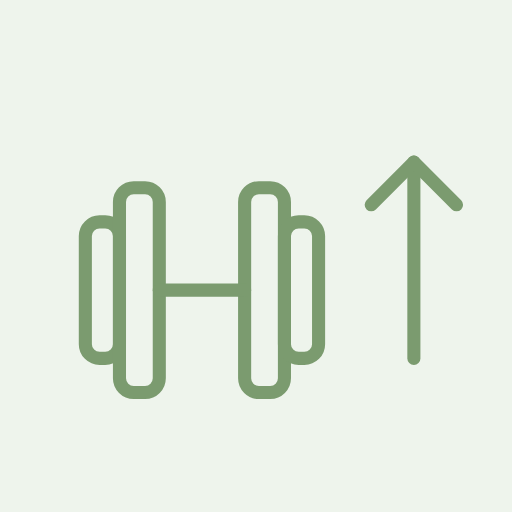
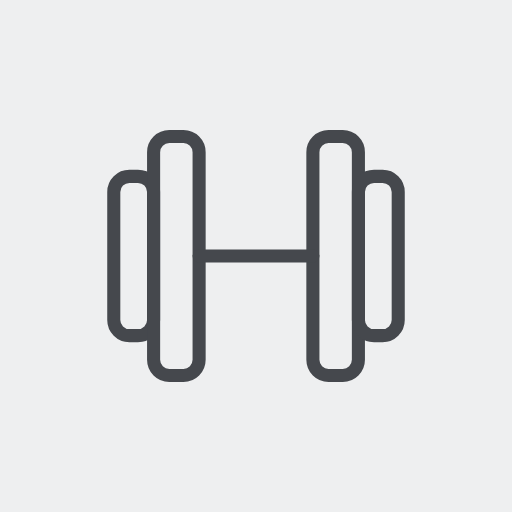
Ícone: só o halter centralizado, em cinza
Claude-Session: https://claude.ai/code/session_011sYtiSwLEkvZPYxei3VD53

Changed region(s): [[0.125, 0.25, 0.9062, 0.7812]]

diff --git a/sw.js b/sw.js
@@ -1,4 +1,4 @@
-var V="treino-v2",FILES=["./","index.html","icon.png","apple-touch-icon.png","manifest.webmanifest"];
+var V="treino-v3",FILES=["./","index.html","icon.png","apple-touch-icon.png","manifest.webmanifest"];
 self.addEventListener("install",function(e){e.waitUntil(caches.open(V).then(function(c){return c.addAll(FILES)}).then(function(){return self.skipWaiting()}))});
 self.addEventListener("activate",function(e){e.waitUntil(caches.keys().then(function(ks){return Promise.all(ks.filter(function(k){return k!==V}).map(function(k){return caches.delete(k)}))}).then(function(){return self.clients.claim()}))});
 self.addEventListener("fetch",function(e){
